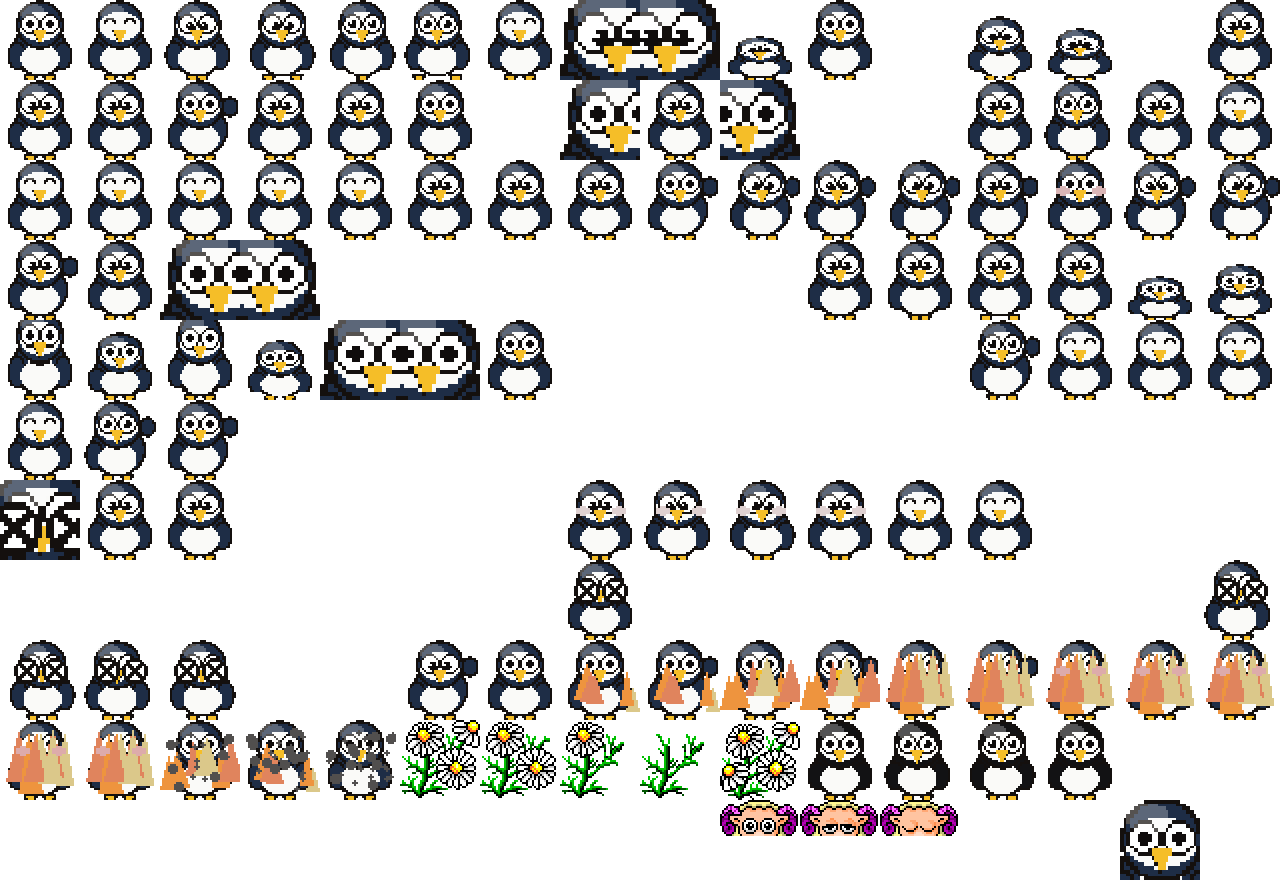
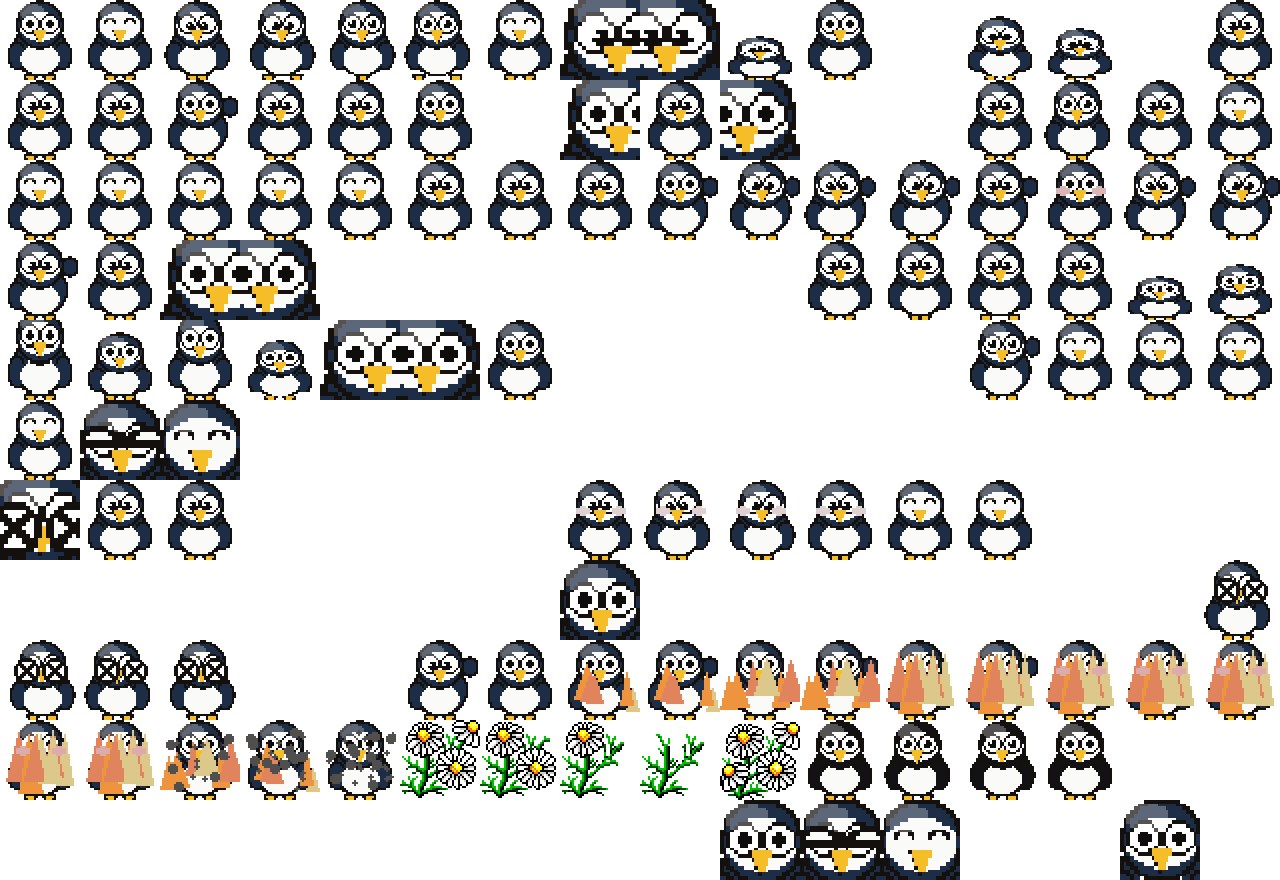
Fix mis-copied sheep art in the penguin sprite sheet
Tiles 169-171 were wrongly assumed to be a water-trough prop and
copied verbatim from the sheep sheet -- they're actually a sheep face
closeup blink sequence (open/drowsy/closed eyes) used by the bath
animations. Also fixes 81, 82, and 119, which are part of the same
blink sequence and had been mapped to unrelated poses (jump arch,
dizzy reaction). All six are now drawn as penguin closeups. Verified
by diffing every populated tile against the sheep sheet at the same
index -- no remaining accidental matches outside the five flower-prop
tiles that are meant to be copied.

Changed region(s): [[0.5625, 0.8898, 0.75, 1.0], [0.0625, 0.4602, 0.1875, 0.5523], [0.4375, 0.6443, 0.5, 0.7364]]

diff --git a/tools/gen_penguin_sheet_full.py b/tools/gen_penguin_sheet_full.py
@@ -3,9 +3,12 @@
 176 grid cells) for the Ice Blue penguin. Reuses the Phase-2 MVP poses already
 placed (walk/fall/spin/sleep/climb, 36 tiles) and adds the rest: run, jump,
 grooming, dizzy/reaction shots, bounce squash-stretch, catching fire, sooty
-aftermath, and a black-morph gag. Three tile groups are true scene props
-(water trough, flowers) rather than character poses -- those are copied
-directly from the original sheep sheet instead of redrawn.
+aftermath, and a black-morph gag. Only the flower-growth tiles (149-153) are
+true scene props copied directly from the sheep sheet; everything else,
+including the closeup reaction shots, is redrawn as the penguin -- do not
+assume a tile is a generic prop just because it looks decorative without
+checking the actual sheep-sheet art first (169-171 look like they could be
+a water trough at a glance; they are not).
 """
 import os
 import sys
@@ -60,6 +63,18 @@ def add_soot(img, level):
         y = rnd.randint(6, TILE - 6)
         r = rnd.randint(1, 2)
         d.ellipse([x - r, y - r, x + r, y + r], fill=(25, 22, 20, 220))
+    return img
+
+
+def add_half_lids(img):
+    """Droopy half-closed eyelids (a lowered lid line, not a full blackout),
+    for a blink/drowsy sequence -- pupil still peeks out underneath."""
+    img = img.copy()
+    d = ImageDraw.Draw(img)
+    for ex in (13, 27):
+        ey = 15
+        d.chord([ex - 7, ey - 7, ex + 7, ey + 7], start=190, end=350,
+                fill=BELLY, outline=OUTLINE, width=2)
     return img
 
 
@@ -133,7 +148,7 @@ def copy_prop(idx):
     put(idx, tile)
 
 
-for idx in (169, 170, 171, 149, 150, 151, 152, 153):
+for idx in (149, 150, 151, 152, 153):
     copy_prop(idx)
 
 # --- run / stride (4, 5) ---
@@ -175,15 +190,29 @@ for idx, ph in ((58, 0), (59, 1), (60, -1), (61, 0)):
 for idx, f in ((62, 0.55), (63, 0.7), (64, 1.15), (65, 0.85), (66, 1.1), (67, 0.75), (70, 1.0)):
     put(idx, squash_stretch(f))
 
-# --- jump arch (76, 81, 82) ---
+# --- jump arch (76) ---
 put(76, stand(wave=True, lean=1, cross=False))
-put(81, stand(wave=True, lean=-1, cross=False))
-put(82, stand(wave=True, lean=0, cross=False))
 
-# --- dizzy reactions (96, 119, 127, 128, 129, 130) ---
+# --- dizzy reactions (96, 127, 128, 129, 130) ---
 put(96, zoom_closeup(make_dizzy(stand(cross=False)), cx_frac=0.5))
-for idx, lean in ((119, 0), (127, -1), (128, 1), (129, -1), (130, 1)):
+for idx, lean in ((127, -1), (128, 1), (129, -1), (130, 1)):
     put(idx, make_dizzy(stand(lean=lean, cross=False)))
+
+# --- closeup blink sequence (animations 47 "bathc" and 48 "bathd" cycle
+# through these -- open eyes, drowsy half-lids, fully closed -- as a
+# closeup reaction shot, NOT a water trough; I originally mis-copied 169-171
+# straight from the sheep sheet here, which is exactly wrong: those three
+# ARE sheep character closeups in the source, so a literal copy puts actual
+# sheep art in the penguin sheet. Redrawn as penguin closeups instead. ---
+_blink_open = zoom_closeup(stand(cross=False), cx_frac=0.5, cy_frac=0.32, zoom=1.8)
+_blink_half = zoom_closeup(add_half_lids(stand(cross=False)), cx_frac=0.5, cy_frac=0.32, zoom=1.8)
+_blink_closed = zoom_closeup(draw_closed_eyes(), cx_frac=0.5, cy_frac=0.32, zoom=1.8)
+put(119, _blink_open)
+put(81, _blink_half)
+put(82, _blink_closed)
+put(169, _blink_open)
+put(170, _blink_half)
+put(171, _blink_closed)
 
 # --- crouch gag (103, 104, 105, 106) ---
 for idx, lean in ((103, 0), (104, -1), (105, 1), (106, 0)):
